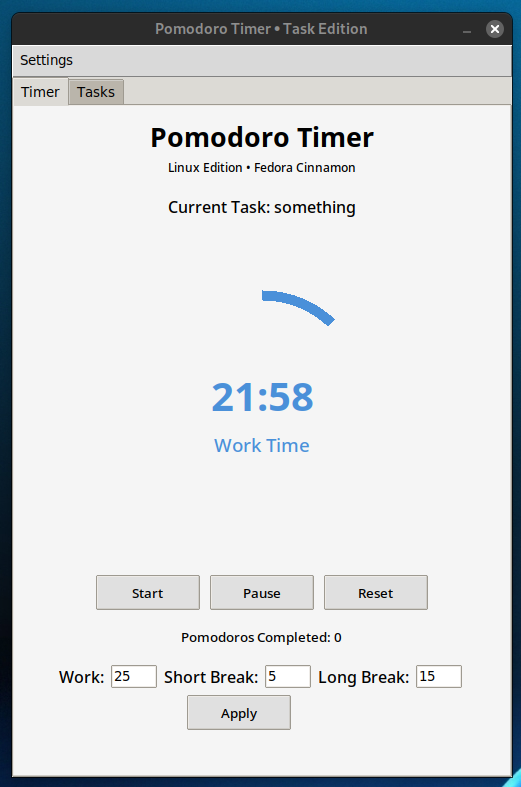
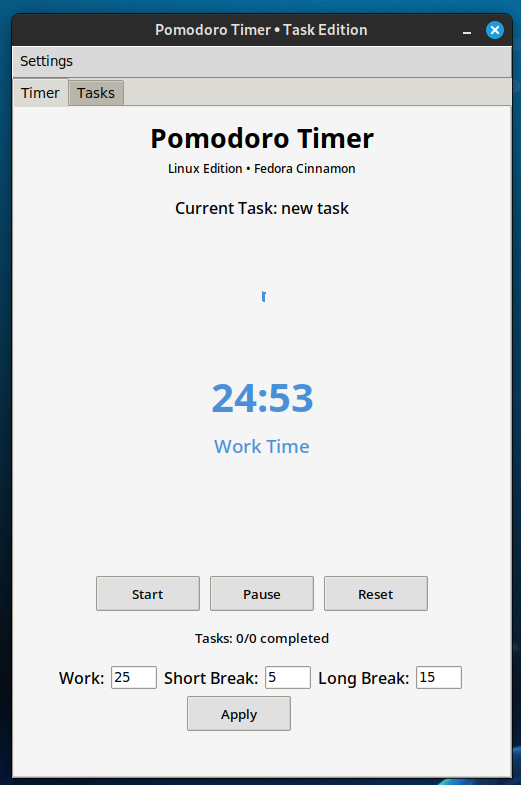
fix: tasks are now properly set as current and marked as done

diff --git a/pomodoro.py b/pomodoro.py
@@ -187,12 +187,9 @@ class PomodoroTimer:
         if selection:
             self.current_task = self.task_list.get(selection)
             self.current_task_label.config(text=f"Current Task: {self.current_task}")
-            # Mark as done when set as current
-            self.task_list.itemconfig(selection, fg="green")
+            # Only change color to indicate it's current (not completed)
+            self.task_list.itemconfig(selection, fg="blue")
             self.save_tasks()
-            
-            # Update completed task count in stats
-            self.update_stats_display()
     
     def delete_task(self):
         selection = self.task_list.curselection()
@@ -321,7 +318,16 @@ class PomodoroTimer:
         if self.current_mode == "Work":
             self.pomodoro_count += 1
             self.counter_label.config(text=f"Pomodoros Completed: {self.pomodoro_count}")
-            
+
+            # Mark current task as completed when work session finishes
+            if self.current_task:
+                for i in range(self.task_list.size()):
+                    if self.task_list.get(i) == self.current_task:
+                        self.task_list.itemconfig(i, fg="green")
+                        break
+                    self.save_tasks()
+                    self.update_stats_display()
+                    
             if self.pomodoro_count % 4 == 0:
                 self.current_mode = "Long Break"
                 self.time_left = self.long_break

diff --git a/README.md b/README.md
@@ -1,6 +1,6 @@
 # Pomodoro Timer with Task Management
 
-![Pomodoro Timer Screenshot](demo.png) *[demo.png]*
+![Pomodoro Timer Screenshot](demo.png)
 
 A productivity application combining the Pomodoro technique with task management, designed for Linux (Fedora Cinnamon) with a clean, minimalist interface.
 
